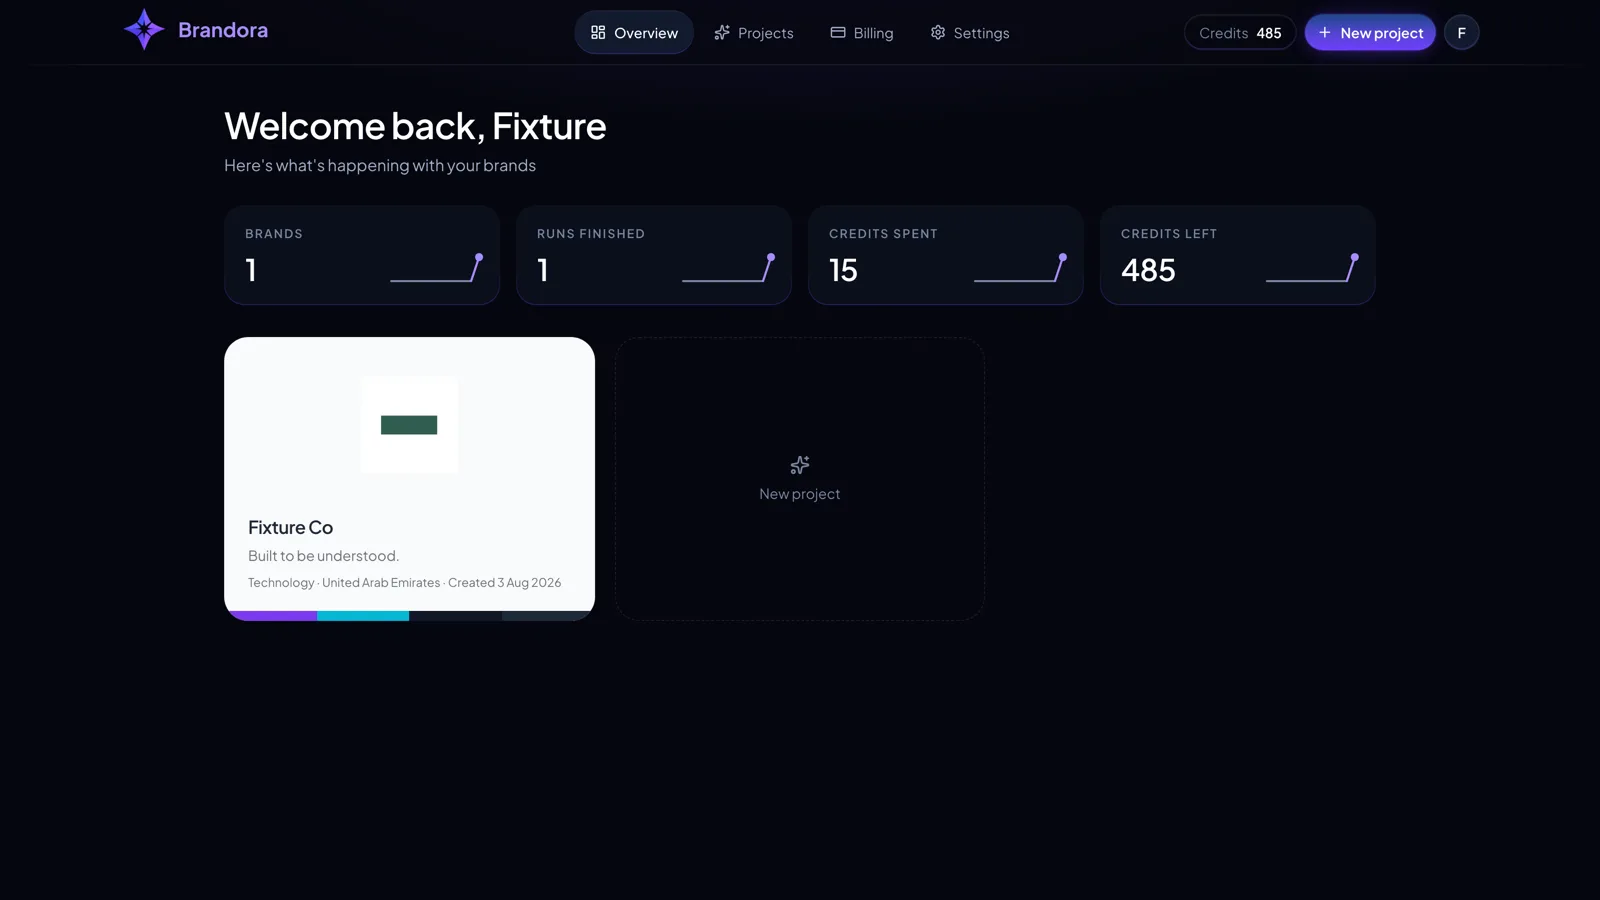
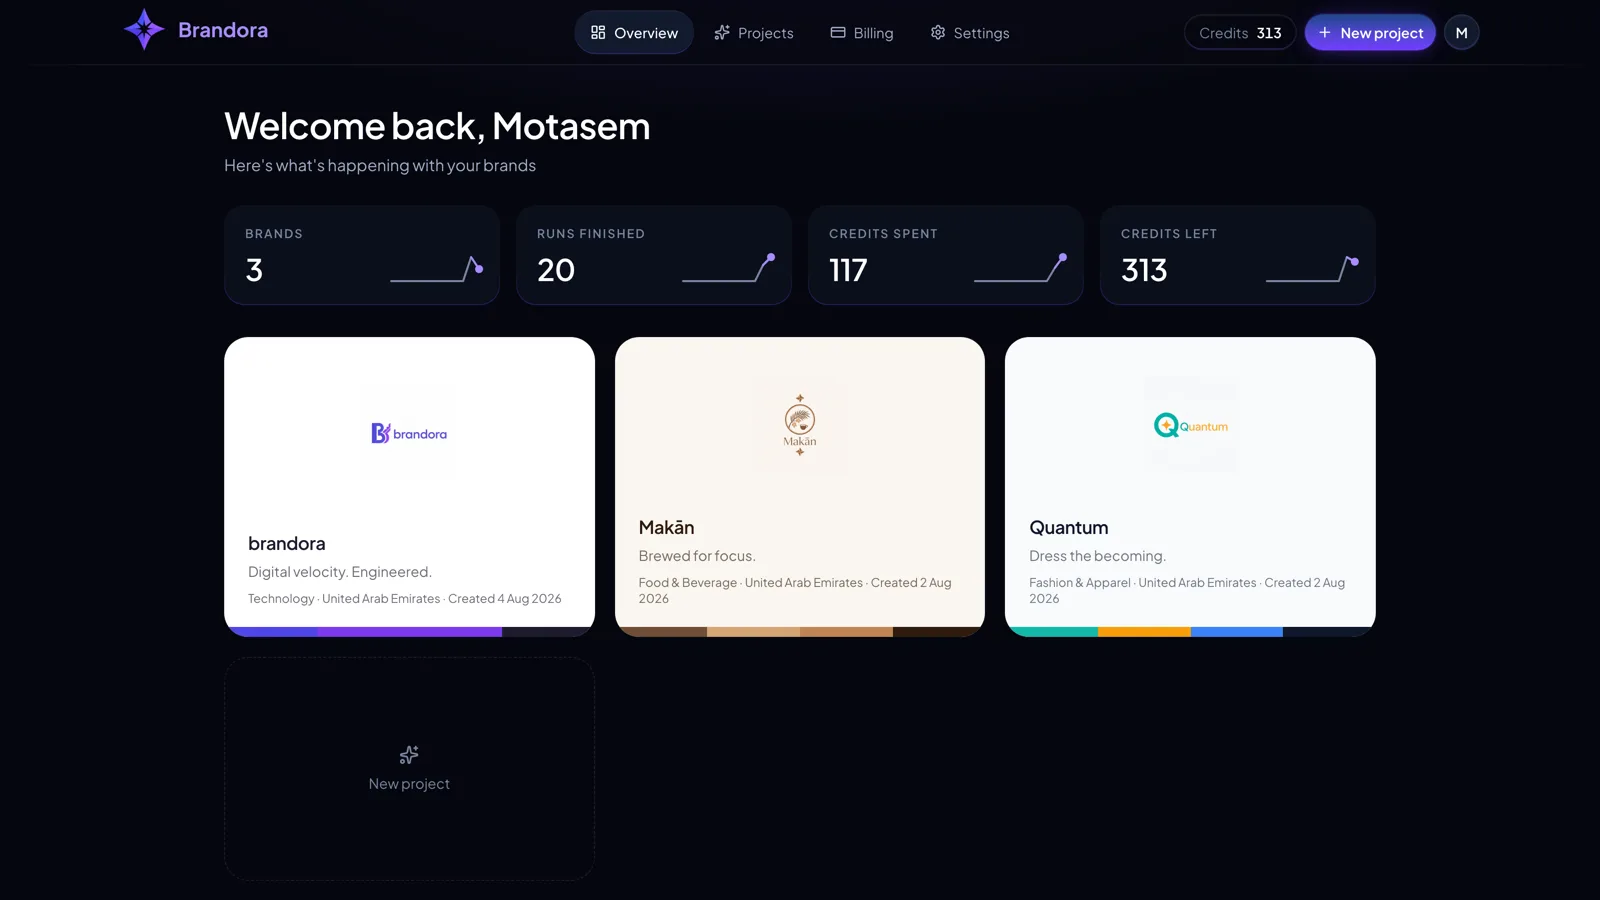
Show a real account on the landing page, and make the admin actions controls
Three things the pre-deploy pass turned up, two of which needed a login nobody
had used since the redesign.

**The hero was advertising the test fixture.** It greeted "Welcome back,
Fixture" above a single brand called Fixture Co — seeded data, on the public
landing page. The database already held a better account: the workspace with
three completed brands, one of them Makān, which PRODUCT.md names as genuine
output usable in marketing precisely so this does not have to be invented. The
shot is that account, so it shows three specimens each wearing its own paper,
ink and palette, over figures that are its real ones.

That account is also the platform administrator, and the first capture carried
an Admin item in the navigation that no customer will ever have. The role came
off for the shot and went back afterwards.

**Suspend and Make admin were not controls.** Administration had never been
looked at since it got the app's bar — the fixture account is not an admin, so
every screenshot of it had quietly been a redirect to the dashboard. Seen at
last, the two most consequential actions in the product were 12px text with no
hit area: under the 44px floor every other control in the system clears, and
carrying none of the light that now distinguishes something you can press from
something you can only read. See the Lit Control Rule.

The light theme was checked across the dashboard, projects, billing, settings
[…]

diff --git a/src/components/features/admin/user-row.tsx b/src/components/features/admin/user-row.tsx
@@ -1,6 +1,8 @@
 'use client'
 
 import { Loader2 } from 'lucide-react'
+
+import { Button } from '@/components/ui/button'
 import { useTranslations } from 'next-intl'
 import { useAction } from 'next-safe-action/hooks'
 
@@ -54,8 +56,19 @@ export function UserRow({ user, isSelf }: { user: User; isSelf: boolean }) {
           // administrator out through its own UI.
           <span className="text-xs text-fg-muted">{t('users.you')}</span>
         ) : (
-          <div className="flex justify-end gap-3">
-            <button
+          /*
+            Real controls, not 12px text.
+
+            Suspending an account and granting it administration are the two
+            most consequential things anyone can do in this product, and they
+            were bare text with no hit area to speak of — under the 44px floor
+            every other control in the system clears, and carrying none of the
+            light that now says "this can be pressed". They are Buttons.
+          */
+          <div className="flex justify-end gap-1">
+            <Button
+              variant="ghost"
+              size="sm"
               disabled={busy}
               onClick={() =>
                 status.execute({
@@ -63,19 +76,22 @@ export function UserRow({ user, isSelf }: { user: User; isSelf: boolean }) {
                   status: user.status === 'active' ? 'suspended' : 'active',
                 })
               }
-              className="text-xs text-fg-secondary hover:text-danger disabled:opacity-50"
+              className="hover:text-danger"
             >
-              {busy ? <Loader2 className="size-3 animate-spin" /> : user.status === 'active' ? t('users.suspend') : t('users.activate')}
-            </button>
-            <button
+              {busy && <Loader2 className="animate-spin" />}
+              {user.status === 'active' ? t('users.suspend') : t('users.activate')}
+            </Button>
+            <Button
+              variant="ghost"
+              size="sm"
               disabled={busy}
               onClick={() =>
                 role.execute({ userId: user.id, role: user.role === 'admin' ? 'user' : 'admin' })
               }
-              className="text-xs text-fg-secondary hover:accent-text disabled:opacity-50"
+              className="hover:accent-text"
             >
               {user.role === 'admin' ? t('users.demote') : t('users.promote')}
-            </button>
+            </Button>
           </div>
         )}
       </TD>
